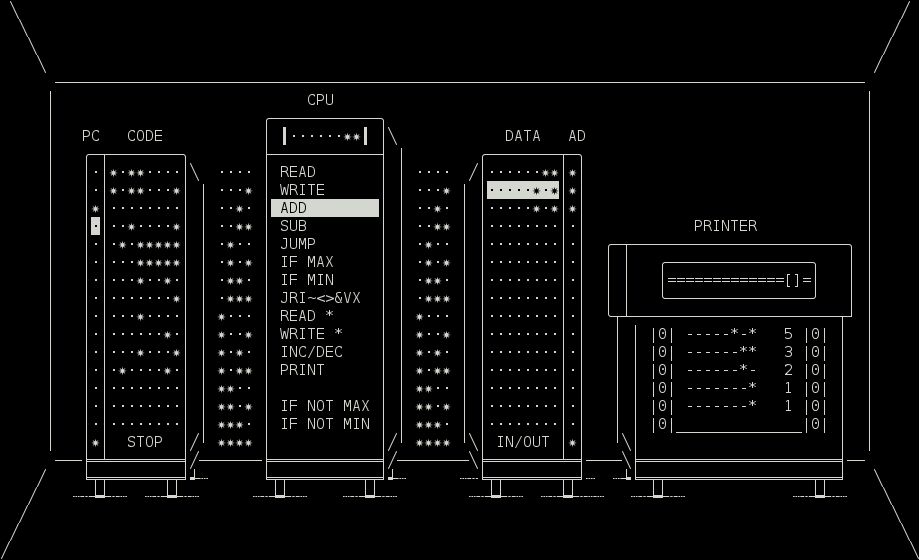
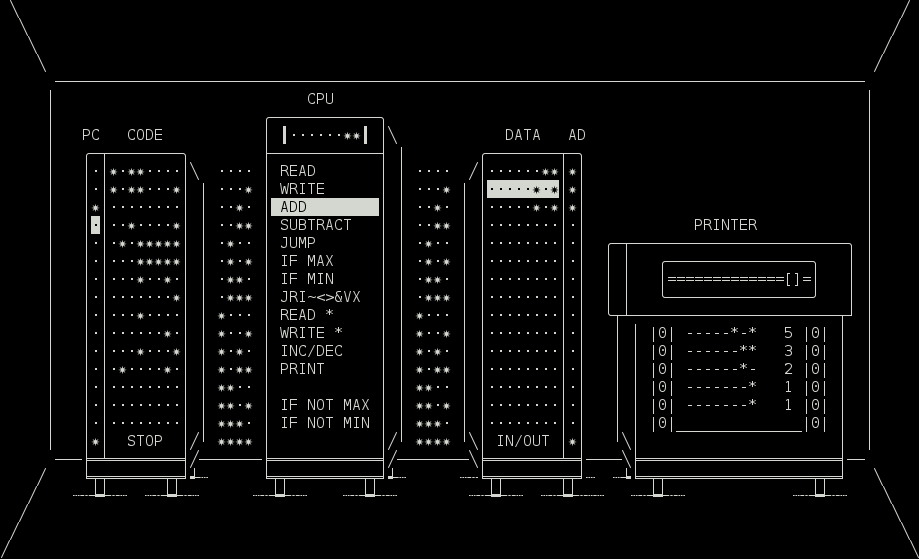
Sub changed to subtract

diff --git a/src/drawing2D.hpp b/src/drawing2D.hpp
@@ -75,8 +75,8 @@ u8"\u0076", u8"\u007C", u8"\u0020", u8"\u0020", u8"\u000D", u8"\u000A",
 u8"\u007C", u8"\u0067", u8"\u007C", u8"\u0061", u8"\u0061", u8"\u0061", 
 u8"\u0061", u8"\u0061", u8"\u0061", u8"\u0061", u8"\u0061", u8"\u007C", 
 u8"\u0020", u8"\u002D", u8"\u002D", u8"\u002A", u8"\u002A", u8"\u0020", 
-u8"\u007C", u8"\u0020", u8"\u0053", u8"\u0055", u8"\u0042", u8"\u0020", 
-u8"\u0020", u8"\u0020", u8"\u0020", u8"\u0020", u8"\u0020", u8"\u0020", 
+u8"\u007C", u8"\u0020", u8"\u0053", u8"\u0055", u8"\u0042", u8"\u0054", 
+u8"\u0052", u8"\u0041", u8"\u0043", u8"\u0054", u8"\u0020", u8"\u0020", 
 u8"\u0020", u8"\u007C", u8"\u0020", u8"\u002D", u8"\u002D", u8"\u002A", 
 u8"\u002A", u8"\u0020", u8"\u007C", u8"\u0062", u8"\u0062", u8"\u0062", 
 u8"\u0062", u8"\u0062", u8"\u0062", u8"\u0062", u8"\u0062", u8"\u007C", 

diff --git a/src/drawing3D.hpp b/src/drawing3D.hpp
@@ -214,7 +214,7 @@ u8"\u2502", u8"\u0067", u8"\u2502", u8"\u0061", u8"\u0061", u8"\u0061",
 u8"\u0061", u8"\u0061", u8"\u0061", u8"\u0061", u8"\u0061", u8"\u2502", 
 u8"\u0020", u8"\u2502", u8"\u0020", u8"\u00B7", u8"\u00B7", u8"\u2737", 
 u8"\u2737", u8"\u0020", u8"\u2502", u8"\u0020", u8"\u0053", u8"\u0055", 
-u8"\u0042", u8"\u0020", u8"\u0020", u8"\u0020", u8"\u0020", u8"\u0020", 
+u8"\u0042", u8"\u0054", u8"\u0052", u8"\u0041", u8"\u0043", u8"\u0054", 
 u8"\u0020", u8"\u0020", u8"\u0020", u8"\u2502", u8"\u0020", u8"\u2502", 
 u8"\u0020", u8"\u00B7", u8"\u00B7", u8"\u2737", u8"\u2737", u8"\u0020", 
 u8"\u2502", u8"\u0020", u8"\u2502", u8"\u0062", u8"\u0062", u8"\u0062", 

diff --git a/src/drawing3Db.hpp b/src/drawing3Db.hpp
@@ -214,7 +214,7 @@ u8"\u2502", u8"\u0067", u8"\u2502", u8"\u0061", u8"\u0061", u8"\u0061",
 u8"\u0061", u8"\u0061", u8"\u0061", u8"\u0061", u8"\u0061", u8"\u2502", 
 u8"\u0020", u8"\u2502", u8"\u0020", u8"\u00B7", u8"\u00B7", u8"\u2666", 
 u8"\u2666", u8"\u0020", u8"\u2502", u8"\u0020", u8"\u0053", u8"\u0055", 
-u8"\u0042", u8"\u0020", u8"\u0020", u8"\u0020", u8"\u0020", u8"\u0020", 
+u8"\u0042", u8"\u0054", u8"\u0052", u8"\u0041", u8"\u0043", u8"\u0054", 
 u8"\u0020", u8"\u0020", u8"\u0020", u8"\u2502", u8"\u0020", u8"\u2502", 
 u8"\u0020", u8"\u00B7", u8"\u00B7", u8"\u2666", u8"\u2666", u8"\u0020", 
 u8"\u2502", u8"\u0020", u8"\u2502", u8"\u0062", u8"\u0062", u8"\u0062", 
